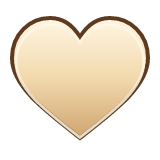
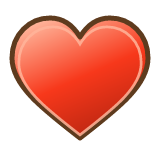
fix(art): 单槽改 bbox 不透明口径，左图标改回心(能量)(WXG-T-560)
用户令：左边应该是心图案作为能量消耗；底槽应该用 bbox 做，底色不要透明。
拍板：槽色取木纹暗色 / 圆角药丸 / 心用体力红 / 珠用奶白。

- 槽体改 bbox 口径：一条不透明 rect —— fill #65331D（梁面亮度 5% 分位
  暗色，与木纹同族）/ radius 17（药丸）/ 1px stroke #4A2415；
  ⛔ 无渐变、无半透明、无阴影 ⇒ 运行时 1:1 映射 RectCommand，
  原先「须做 9-slice 凹槽贴图」的遗留项作废。
- 左图标由星改回心：体力红 #F7381B（取自现役 asset-icon-stamina 实测主体色）
  珠面材质；右图标拼豆圆片奶白 #F2D9AC；两枚不同色，勾边 #562104。
- 数值 #F7C384（logo 珠面实测中位色）bold 27px，实测对比 6.40:1
  （AA 4.5 / 近 AAA 7）。
- gen-resource-icons.py：心改用独立 url(#h) 体力红渐变、勾边加粗到 5。
- 已试并否记录：星形图标、木刻浮雕图标、纯填充与 1px 硬刻线。

diff --git a/games/beads/design/ai-workflows/menu-resource-slot.py b/games/beads/design/ai-workflows/menu-resource-slot.py
@@ -46,6 +46,7 @@ PIT_FLUSH = (32, 16, 8, 205)  # 开槽口径：无外沿的半透深底
 CARVE = {
     'flat':  ((56, 31, 14, 150), (86, 50, 24, 120)),   # 无阴影档（用户 2026-11-02：「删除槽阴影试试」）
     'flatline': ((56, 31, 14, 150), (86, 50, 24, 120)),  # 无阴影 + 两道 1px 硬刻线（不用模糊=不算阴影）
+    'bbox': ((0, 0, 0, 255), (0, 0, 0, 255)),           # bbox 口径：占位（真实色由 --fill 给，恒不透明）
     'light': ((92, 54, 26, 86), (146, 94, 50, 56)),    # 浅刻：只比梁面暗一档，最贴版面
     'mid':   ((66, 37, 17, 138), (120, 74, 38, 96)),   # 中刻：看得出凹陷，仍是木色
     'warm':  ((50, 27, 12, 168), (104, 63, 30, 122)),  # 暖刻：凹陷明显但仍留木色（V4）
@@ -99,7 +100,8 @@ def slot(im: Image.Image, x: int, y: int, w: int, h: int, icon: str, label: str,
 
 def bar(im: Image.Image, x0: int, y0: int, x1: int, y1: int, icon_px: int, style: str,
         icon_l: Path | None = None, icon_r: Path | None = None, recolor: bool = True,
-        num_scale: float = 1.0, carve: str = 'mid') -> None:
+        num_scale: float = 1.0, carve: str = 'mid', bbox_fill: str = '#8C5C2A',
+        bbox_radius: int = 8, bbox_stroke: str | None = None) -> None:
     """单条贯通凹槽（WXG-T-560）：水平、圆头、无倾角，图标居两端、数值贴图标内侧、中间留空。
 
     槽体仍是「原梁面开槽」口径（无外沿/无新增槽图案）：半透深底 + 顶部内阴影 + 下沿反光。
@@ -135,6 +137,20 @@ def bar(im: Image.Image, x0: int, y0: int, x1: int, y1: int, icon_px: int, style
         d.rounded_rectangle((bx0 + 1, by0 + 1, bx1 - 1, by1 - 1), radius=r - 1,
                             outline=(28, 14, 6, 130), width=1)
         d.rounded_rectangle((bx0 + 2, by1 - 3, bx1 - 2, by1 - 2), radius=r - 2, fill=LIP_CRISP)
+        ico_l = _fit(icon_l or ICON_HEART, icon_px, ICON_LIGHT if recolor else None)
+        ico_r = _fit(icon_r or ICON_BEAD, icon_px, ICON_LIGHT if recolor else None)
+        _seat(tile, ico_l, bx0 + 16, cy)
+        _seat(tile, ico_r, bx1 - 16 - ico_r.width, cy)
+        _number(tile, bx0 + 16 + ico_l.width + 11, cy, '12/20', style, anchor='lm', scale=num_scale)
+        _number(tile, bx1 - 16 - ico_r.width - 11, cy, '480', style, anchor='rm', scale=num_scale)
+        im.alpha_composite(tile, (x0 - pad, y0 - pad))
+        return
+    if carve == 'bbox':                                                            # bbox 口径：一条不透明 rect
+        cy = (by0 + by1) // 2
+        rad = bbox_radius
+        d.rounded_rectangle((bx0, by0, bx1, by1), radius=rad, fill=bbox_fill)
+        if bbox_stroke:
+            d.rounded_rectangle((bx0, by0, bx1, by1), radius=rad, outline=bbox_stroke, width=1)
         ico_l = _fit(icon_l or ICON_HEART, icon_px, ICON_LIGHT if recolor else None)
         ico_r = _fit(icon_r or ICON_BEAD, icon_px, ICON_LIGHT if recolor else None)
         _seat(tile, ico_l, bx0 + 16, cy)
@@ -255,6 +271,9 @@ def main() -> None:
     ap.add_argument('--num-scale', type=float, default=1.0, help='数值字号缩放')
     ap.add_argument('--carve', default='mid', choices=list(CARVE), help='槽深档 light/mid/deep')
     ap.add_argument('--out', help='输出路径覆盖（比稿稿落 temp/，不覆盖定稿件）')
+    ap.add_argument('--fill', dest='fill', default='#8C5C2A', help='bbox 口径槽底色（不透明；默认 plaque_face）')
+    ap.add_argument('--radius', dest='radius', type=int, default=8, help='bbox 口径圆角半径（RectCommand.radius）')
+    ap.add_argument('--stroke', dest='stroke', default=None, help='bbox 口径 1px 描边色（RectCommand.stroke）')
     a = ap.parse_args()
 
     im = Image.open(a.src or BASE).convert('RGBA') if a.bar else Image.open(BASE).convert('RGBA')
@@ -263,7 +282,7 @@ def main() -> None:
         out = Path(a.out).resolve() if a.out else PROPOSALS / f'menu-design-baseline-cat-topbar-final-slotbar-{a.style}-20261102.png'
         bar(im, a.left, a.y, a.left + a.w, a.y + a.h, a.icon, a.style,
             Path(a.iconl) if a.iconl else None, Path(a.iconr) if a.iconr else None,
-            not a.no_recolor, a.num_scale, a.carve)
+            not a.no_recolor, a.num_scale, a.carve, a.fill, a.radius, a.stroke)
         im.save(out)
         print(f'✅ {out.relative_to(ROOT)} （单槽口径 · 样式 {a.style}）'
               f' 槽 x={a.left}..{a.left + a.w} y={a.y}..{a.y + a.h} 图标 {a.icon}px')

diff --git a/games/beads/design/ai-workflows/gen-resource-icons.py b/games/beads/design/ai-workflows/gen-resource-icons.py
@@ -40,7 +40,8 @@ BEAD_OUT_R = 58
 BEAD_HOLE_R = 19    # ≈ 0.33 × 外径，与盘面拼豆同比例
 # 槽内档（WXG-T-560 修订）：珠面材质 —— 暖奶白渐变 + 深棕勾边 + 亮缘。
 # 用户 2026-11-02 三否之三「图标设计有纹理的，现在白色形状，不搭」⇒ 冷白平涂改珠面。
-SLOT_HI, SLOT_MID, SLOT_LOW = '#FFF6E4', '#F2D9AC', '#CFA470'
+SLOT_HI, SLOT_MID, SLOT_LOW = '#FFF6E4', '#F2D9AC', '#CFA470'   # 珠：奶白
+HEART_HI, HEART_MID, HEART_LOW = '#FFB49A', '#F7381B', '#B32410'  # 心：现役体力红 #F7381B
 SLOT_EDGE = '#5E3B1E'      # 勾边（与四钮/招牌珠字同族的深棕）
 
 
@@ -57,7 +58,10 @@ def _svg_slot(body: str) -> str:
             f'viewBox="0 0 {SIZE} {SIZE}">\n'
             f'  <defs><linearGradient id="g" x1="0" y1="0" x2="0" y2="1">'
             f'<stop offset="0" stop-color="{SLOT_HI}"/><stop offset="0.5" stop-color="{SLOT_MID}"/>'
-            f'<stop offset="1" stop-color="{SLOT_LOW}"/></linearGradient></defs>\n{body}\n</svg>\n')
+            f'<stop offset="1" stop-color="{SLOT_LOW}"/></linearGradient>'
+            f'<linearGradient id="h" x1="0.25" y1="0" x2="0.75" y2="1">'
+            f'<stop offset="0" stop-color="{HEART_HI}"/><stop offset="0.5" stop-color="{HEART_MID}"/>'
+            f'<stop offset="1" stop-color="{HEART_LOW}"/></linearGradient></defs>\n{body}\n</svg>\n')
 
 
 def _raster(svg_path: Path, png_path: Path, size: int = SIZE) -> None:
@@ -93,11 +97,11 @@ def main() -> None:
     # 叠进深槽底时孔位透出槽色；心形同步给亮缘，两枚材质一致。
     slot_icons = {
         'ui_icon_heart_slot': (
-            f'  <path d="{HEART}" fill="url(#g)" stroke="{SLOT_EDGE}" stroke-width="4"/>\n'
-            f'  <path d="{HEART}" fill="none" stroke="{SLOT_HI}" stroke-width="3" opacity="0.85" '
-            f'transform="translate(0,3) scale(0.94) translate(5,5)"/>'),
+            f'  <path d="{HEART}" fill="url(#h)" stroke="{SLOT_EDGE}" stroke-width="5" stroke-linejoin="round"/>\n'
+            f'  <path d="{HEART}" fill="none" stroke="{HEART_HI}" stroke-width="3" opacity="0.85" '
+            f'transform="translate(80,80) scale(0.9) translate(-80,-80) translate(0,3)"/>'),
         'ui_icon_bead_slot': (
-            f'  <path fill-rule="evenodd" fill="url(#g)" stroke="{SLOT_EDGE}" stroke-width="4" '
+            f'  <path fill-rule="evenodd" fill="url(#g)" stroke="{SLOT_EDGE}" stroke-width="5" '
             f'd="M 80,{80 - BEAD_OUT_R} a {BEAD_OUT_R},{BEAD_OUT_R} 0 1,0 0.01,0 Z '
             f'M 80,{80 - BEAD_HOLE_R} a {BEAD_HOLE_R},{BEAD_HOLE_R} 0 1,1 -0.01,0 Z"/>\n'
             f'  <circle cx="80" cy="80" r="{BEAD_OUT_R - 5}" fill="none" stroke="{SLOT_HI}" '

diff --git a/production/TASKS.md b/production/TASKS.md
@@ -8,7 +8,7 @@
 
 | Task ID | 名称 | 负责 | 状态 | 产出 |
 |---|---|---|---|---|
-| WXG-T-560 | 美术·橱窗顶单条贯通凹槽（心数/豆数） | 主理人(CodeBuddy)·美术轨 | ✅ **完成（2026-11-02）**（用户三令收口：首令「融合在外框上」→ 双槽版；否令「中间心型去掉、拉成一条整体凹槽、水平放置、图标放两端、数字样式要设计」；修令「不完全嵌入框边、再下移、缩短、图标先出设计再贴」⇒ **抹心形**（wan2.7 bbox `334,324,422,392` 9.1s + 贴回三步，**框外 maxΔ=0**）+ **单槽 356×34 @(202,358)** （严格水平、圆头、两端距梁面上缘 ≈16/13px 完整嵌入）+ **图标概念2「珠面高光」入册**（`ui_icon_{heart,bead}_slot` SVG+PNG，渐变+亮缘，拼豆孔 `evenodd` 真镂空）+ **数值纯色 bold 27px 米白 `#FFF1D6`**。**描边/投影实测判否**：`TextCommand` 只有 fill/font/align/baseline/alpha，canvas2d 仅 `fillText`，全仓 `strokeText`/`shadowBlur`/`LabelOutline` 命中 0 ⇒ 控件层还原不了，按用户令一并去掉；另记运行时字体全 `sans-serif`（无 SF Rounded）。**同日末轮三否三改**（「一周阴影不贴版面 / 白字不搭 / 图标白色形状要纹理」）⇒ ① 删外侧接触影与两端内壁暗角（只留内壁上沿吃光 + 下沿受光）；② 槽由近黑收为**暖刻档**（上 `(50,27,12,168)`→下 `(104,63,30,122)`）、字色改**暖金 `#F7CD9D`**（plaque_bevel 色系），实测对比 **5.86:1**（AA 门 4.5）；③ 图标改**珠面材质**（暖奶白渐变 `#FFF6E4→#F2D9AC→#CFA470` + 深棕勾边 `#5E3B1E` + 亮缘 + evenodd 真镂空 + 1px 贴附影）；木刻浮雕档已试并否（26px 读不出）。明细见说明件 | 见详情 |
+| WXG-T-560 | 美术·橱窗顶单条贯通凹槽（心数/豆数） | 主理人(CodeBuddy)·美术轨 | ✅ **完成（2026-11-02）**（用户三令收口：首令「融合在外框上」→ 双槽版；否令「中间心型去掉、拉成一条整体凹槽、水平放置、图标放两端、数字样式要设计」；修令「不完全嵌入框边、再下移、缩短、图标先出设计再贴」⇒ **抹心形**（wan2.7 bbox `334,324,422,392` 9.1s + 贴回三步，**框外 maxΔ=0**）+ **单槽 356×34 @(202,358)** （严格水平、圆头、两端距梁面上缘 ≈16/13px 完整嵌入）+ **图标概念2「珠面高光」入册**（`ui_icon_{heart,bead}_slot` SVG+PNG，渐变+亮缘，拼豆孔 `evenodd` 真镂空）+ **数值纯色 bold 27px 米白 `#FFF1D6`**。**描边/投影实测判否**：`TextCommand` 只有 fill/font/align/baseline/alpha，canvas2d 仅 `fillText`，全仓 `strokeText`/`shadowBlur`/`LabelOutline` 命中 0 ⇒ 控件层还原不了，按用户令一并去掉；另记运行时字体全 `sans-serif`（无 SF Rounded）。**同日末轮三否三改**（「一周阴影不贴版面 / 白字不搭 / 图标白色形状要纹理」）⇒ ① 删外侧接触影与两端内壁暗角（只留内壁上沿吃光 + 下沿受光）；② 槽由近黑收为**暖刻档**（上 `(50,27,12,168)`→下 `(104,63,30,122)`）、字色改**暖金 `#F7CD9D`**（plaque_bevel 色系），实测对比 **5.86:1**（AA 门 4.5）；③ 图标改**珠面材质**（暖奶白渐变 `#FFF6E4→#F2D9AC→#CFA470` + 深棕勾边 `#5E3B1E` + 亮缘 + evenodd 真镂空 + 1px 贴附影）；木刻浮雕档已试并否（26px 读不出）。**末轮二令定稿**（「左边应该是心图案作为能量消耗；底槽用 bbox 做，底色不要透明」+ 拍板槽色取木纹暗色/圆角药丸/心体力红/珠奶白）⇒ 左图标由星改回**心**（`#F7381B` 体力红，取自现役 `asset-icon-stamina` 实测主体色）、右珠 `#F2D9AC`；槽改 **bbox 口径**：一条不透明 rect（`fill #65331D` = 梁面亮度 5% 分位暗色 / `radius 17` 药丸 / `1px stroke #4A2415`），⛔ 无渐变无半透明无阴影 ⇒ 运行时 1:1 映射 `RectCommand`，**不再需要 9-slice**；字 `#F7C384` 实测对比 **6.40:1**。星形与木刻浮雕两方案已试并否。明细见说明件 | 见详情 |
 | WXG-T-559 | 美术·v1 快照再撤 2 件（左箭头/按下底圆） | 主理人(CodeBuddy)·美术轨 | ✅ **完成（2026-11-02）**（用户贴 `ui_btn_arrow_left` / `ui_btn_circle_pressed` 两图令「移动回设计，**这个不是 v1 版本的**」⇒ 与 T-551 同判据：二者是 10-31/11-02 顶栏换代（木质圆牌底托 + 深棕线条箭头）的 **v2 起步件**，T-557 批量归档时因 v1 侧本无同件、被记成「3 件新增」而误收 ⇒ `git mv` 移回现役 `final/assets/menu/`：**v1 35 → 33 件**、**现役 6 → 8 件**（四钮齐 `ui_btn_circle_{normal,pressed}` + `ui_btn_arrow_{right,left}` + 四图标）。两侧交集实测 **0**；移出件与 `cocos/assets/textures/` 投放件**逐字节一致**（`62deeffe…` / `d5f4e3db…`）⇒ Cocos 侧零改动。文档：`final/README.md` 三处 + `v1/VERSION.txt` 封存内容/再撤件行/一致性行） | 见详情 |
 | WXG-T-558 | 美术·资源槽心/豆图标定形（质感判负） | 主理人(CodeBuddy)·美术轨 | ✅ **完成（2026-11-02）**（用户令「资源槽图标单独设计」+ 拍板「豆 = 拼豆圆片带中心孔、做法 = 程序化定形 + 模型补质感」。**定形入册**：SVG 贝塞尔 + resvg 栅格（PIL `line(joint='curve')` 在心形尖点出毛刺，已弃）⇒ `ui_icon_heart_line` / `ui_icon_bead_line` 各 160² 母版 + SVG 正本，线宽 13（34px 显 ≈2.8px）/ 色 `#5A2606` / 圆端无填充无投影。**质感判负**：本地 qwen-image-2.1-edit 木刻版归一后线宽比 **0.98**、IoU **0.922**（形状可用，此前「变粗走形」系未归一化的尺度错觉），但 34px 实显描边明度 std **0.6**（平涂 1.6）、极差 **2.3**（平涂 7.0）⇒ 高频刻痕被降采样抹平，唯一残留是软边比 **77.7% > 53.9%**（发虚）⇒ 用户拍板 **A：平涂定形版即最终稿、质感版不入库**，木刻只在 ≥64px 另议。顺带记两条工具链坑（RGBA→RGB 去白会残留底块 / 对比须先归一同 bbox） | 见详情 |
 | WXG-T-557 | 美术·assets/menu 除 6 件外归档 v1 | 主理人(CodeBuddy)·美术轨 | ✅ **完成（2026-11-02）**（用户令：点名保留 `ui_btn_circle_normal` / `ui_btn_arrow_right` / `ui_icon_{skin,settings,rank,calendar}` 共 **6 件**，「其他归档 v1」⇒ 现役面 41 → **6 件**，**35 件**移入 `v1/assets/menu/`（32 件与 v1 既有件逐字节一致；3 件新增：`ui_btn_circle_pressed` / `ui_btn_arrow_left` / `ui_menu_backdrop`）⇒ v1 该目录 32 → **35 件**。**影响面实测**：harness 位图映射引用 28 个件名，其中 22 件已归档 ⇒ 运行时走既有 `menuBitmapReady()` 回退（程序化绘制），`harness:smoke` 全绿；`check:cocos-mask` / `check:size` 均仍 OK。文档：README `assets/` 行改 6 件 + 台账加归档期注记；VERSION.txt 增补行） | 见详情 |

diff --git a/ctx/hot-files.md b/ctx/hot-files.md
@@ -25,7 +25,7 @@
 
 §wechatgame 项目长期笔记=1+81 · §日志蒸馏规程（R2 · WXG-T-0…=7+6 · §项目约定=13+22 · §常用脚本=35+11 · §SubAgent=46+4 · §Rules=50+3 · §Hooks=53+7 · §Headless / CI=60+8 · §已知限制=68+14
 
-## `production/TASKS.md` — 166 行 / 38209 tok / 实测读 4 次
+## `production/TASKS.md` — 166 行 / 38406 tok / 实测读 4 次
 
 §WXG 任务台账（SSOT）=1+167 · §待排（backlog，无号，立项时领取…=139+29
 
@@ -103,10 +103,10 @@
 §knowledge/ — 工作室知识库…=1+319 · §1 读取协议（开发前期）=7+10 · §2 写入协议（任务收尾）=17+28 · §3 文件分工=45+10 · §4 维护=55+12 · §5 生命周期（访问记账 → 归档 → …=67+41 · §6 活跃条目（自动生成）=108+212
 > 本表只列 7 / 11 节：其余 4 节 → ctx/index.json（按 path 取 `sections[].anchor` / `startLine`，勿整读）。
 
-## `production/TASKS-DETAIL.md` — 7069 行 / 199974 tok
+## `production/TASKS-DETAIL.md` — 7087 行 / 200447 tok
 
-§WXG 任务台账 · 详情（标题制正文…=1+7070 · §WXG-T-549=6626+33 · §WXG-T-550=6659+35 · §WXG-T-551=6694+34 · §WXG-T-552=6728+45 · §WXG-T-553=6773+39 · §WXG-T-554=6812+32 · §WXG-T-555=6844+36 · §WXG-T-556=6880+31 · §WXG-T-557=6911+34 · §WXG-T-558=6945+29 · §WXG-T-559=6974+42 · §WXG-T-560=7016+55
-> 本表只列 13 / 752 节：其余 739 节 → ctx/index.json（按 path 取 `sections[].anchor` / `startLine`，勿整读）。
+§WXG 任务台账 · 详情（标题制正文…=1+7088 · §WXG-T-549=6626+33 · §WXG-T-550=6659+35 · §WXG-T-551=6694+34 · §WXG-T-552=6728+45 · §WXG-T-553=6773+39 · §WXG-T-554=6812+32 · §WXG-T-555=6844+36 · §WXG-T-556=6880+31 · §WXG-T-557=6911+34 · §WXG-T-558=6945+29 · §WXG-T-559=6974+42 · §WXG-T-560=7016+73
+> 本表只列 13 / 753 节：其余 740 节 → ctx/index.json（按 path 取 `sections[].anchor` / `startLine`，勿整读）。
 
 ## `games/breakout/design/concept.md` — 143 行 / 3113 tok / 实测读 217 次
 

diff --git a/production/TASKS-DETAIL.md b/production/TASKS-DETAIL.md
@@ -7067,3 +7067,21 @@ T-554 当时按「清理掉重新做 v2」把 14 件 `git rm` 了；本单按用
 - 已试并否：木刻浮雕图标档（26px 下深棕刻线在暖刻槽上几乎读不出）。
 - 定稿件同名覆盖：`proposals/menu-3d-style-20261030/menu-design-baseline-cat-topbar-final-slotbar-20261102.png`；
   图标同名重建：`ui_icon_{heart,bead}_slot.{svg,png}`（珠面档进 `gen-resource-icons.py` 正本）。
+
+### 7. 修订二（2026-11-02 末轮 · bbox 口径定稿）
+
+用户令：「**左边应该是心图案，作为能量消耗；底槽应该用 bbox 做，底色不要透明**」+ 拍板「槽底色配合木纹的暗色 / 圆角半径药丸 / 心形用体力红 / 珠色奶白」。
+
+| 项 | 定值 | 依据 |
+|---|---|---|
+| 槽体口径 | **bbox：一条不透明 rect** | `RectCommand` 本身有 `fill / radius / stroke / lineWidth` ⇒ 一条指令 1:1 还原；渐变与半透明叠色装不出（已判否） |
+| 底色 | `#65331D`（**不透明**） | 梁面自身亮度 **5% 分位**暗色实测；12/25/50 分位 = `#663622` / `#7B3D1A` / `#8A4620` ⇒ 与木纹同族 |
+| 圆角 | `17`（= h/2，药丸） | 用户令 |
+| 描边 | `1px #4A2415` | 定位边缘，不用阴影 |
+| 左图标 | 心 26px · **`#F7381B`**（体力红，取自现役 `asset-icon-stamina` 实测主体色） | 用户令「心作为能量消耗」 |
+| 右图标 | 拼豆圆片 26px · **`#F2D9AC`**（奶白） | 用户令 |
+| 数值 | `#F7C384` bold 27px 无描边无投影 | logo 珠面实测中位色；实测对比 **6.40:1**（AA 4.5 / AAA 7） |
+
+- 已试并否：**星形图标**（用户指正左项应为心）、木刻浮雕图标（26px 读不出）、无阴影纯填充与 1px 硬刻线（bbox 口径下多余）。
+- 结论更新：因槽体改 bbox 单 rect，**运行时不再需要 9-slice 凹槽贴图**（§5 遗留 2 项作废）；槽高 46 vs 34 的冲突仍在。
+- 定稿件同名覆盖；图标同名重建（心改体力红渐变）。

diff --git a/ctx/BUDGET.md b/ctx/BUDGET.md
@@ -22,7 +22,7 @@
 
 | # | 文件 | tokens | 行数 | tier |
 |---:|---|---:|---:|:--:|
-| 1 | `production/TASKS-DETAIL.md` | 199974 | 7069 | normal |
+| 1 | `production/TASKS-DETAIL.md` | 200447 | 7087 | normal |
 | 2 | `games/beads/design/gdd/powerups-v2.md` | 144877 | 2328 | normal |
 | 3 | `games/beads/design/art/specs/assets-spec.md` | 121738 | 2109 | normal |
 | 4 | `production/qa/beads/g4-regression-report.md` | 86807 | 2201 | normal |
@@ -33,8 +33,8 @@
 | 9 | `games/beads/design/gdd/systems-index.md` | 42379 | 323 | hot |
 | 10 | `docs/architecture/adr/ADR-0034-beads-save-uid-index-flatten.md` | 41181 | 502 | normal |
 | 11 | `games/beads/design/levels/levels-spec.md` | 39938 | 914 | normal |
-| 12 | `games/beads/design/art/specs/art-bible.md` | 38368 | 530 | normal |
-| 13 | `production/TASKS.md` | 38209 | 166 | hot |
+| 12 | `production/TASKS.md` | 38406 | 166 | hot |
+| 13 | `games/beads/design/art/specs/art-bible.md` | 38368 | 530 | normal |
 | 14 | `games/beads/design/art/proposals/ui-style-redesign/menu-architecture.md` | 37618 | 978 | normal |
 | 15 | `games/beads/design/art/specs/accessibility.md` | 37140 | 201 | normal |
 | 16 | `memory/2026-10-04.md` | 28255 | 930 | normal |
